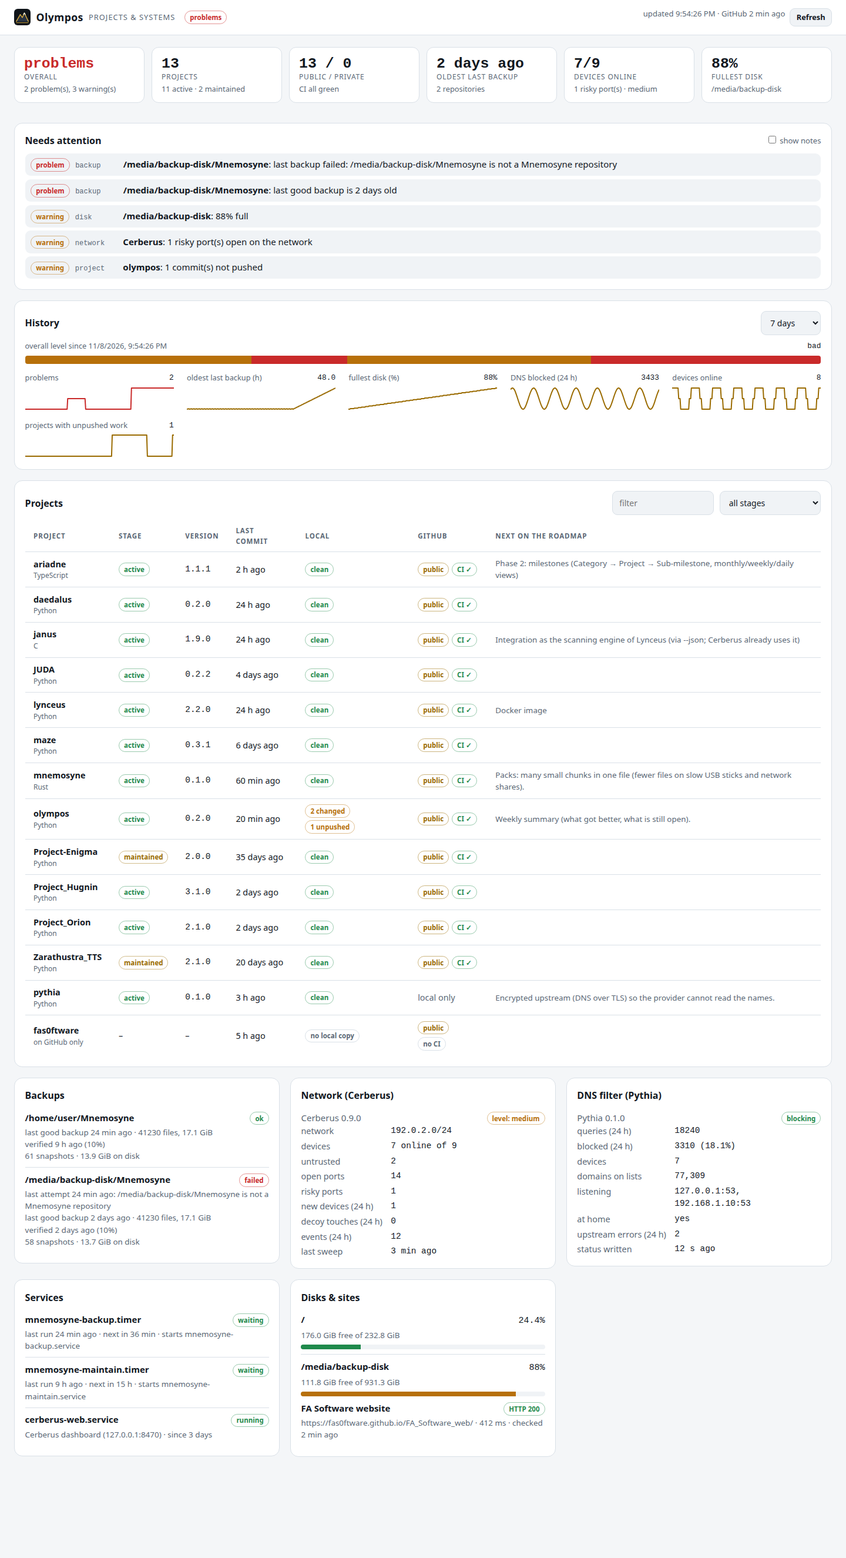
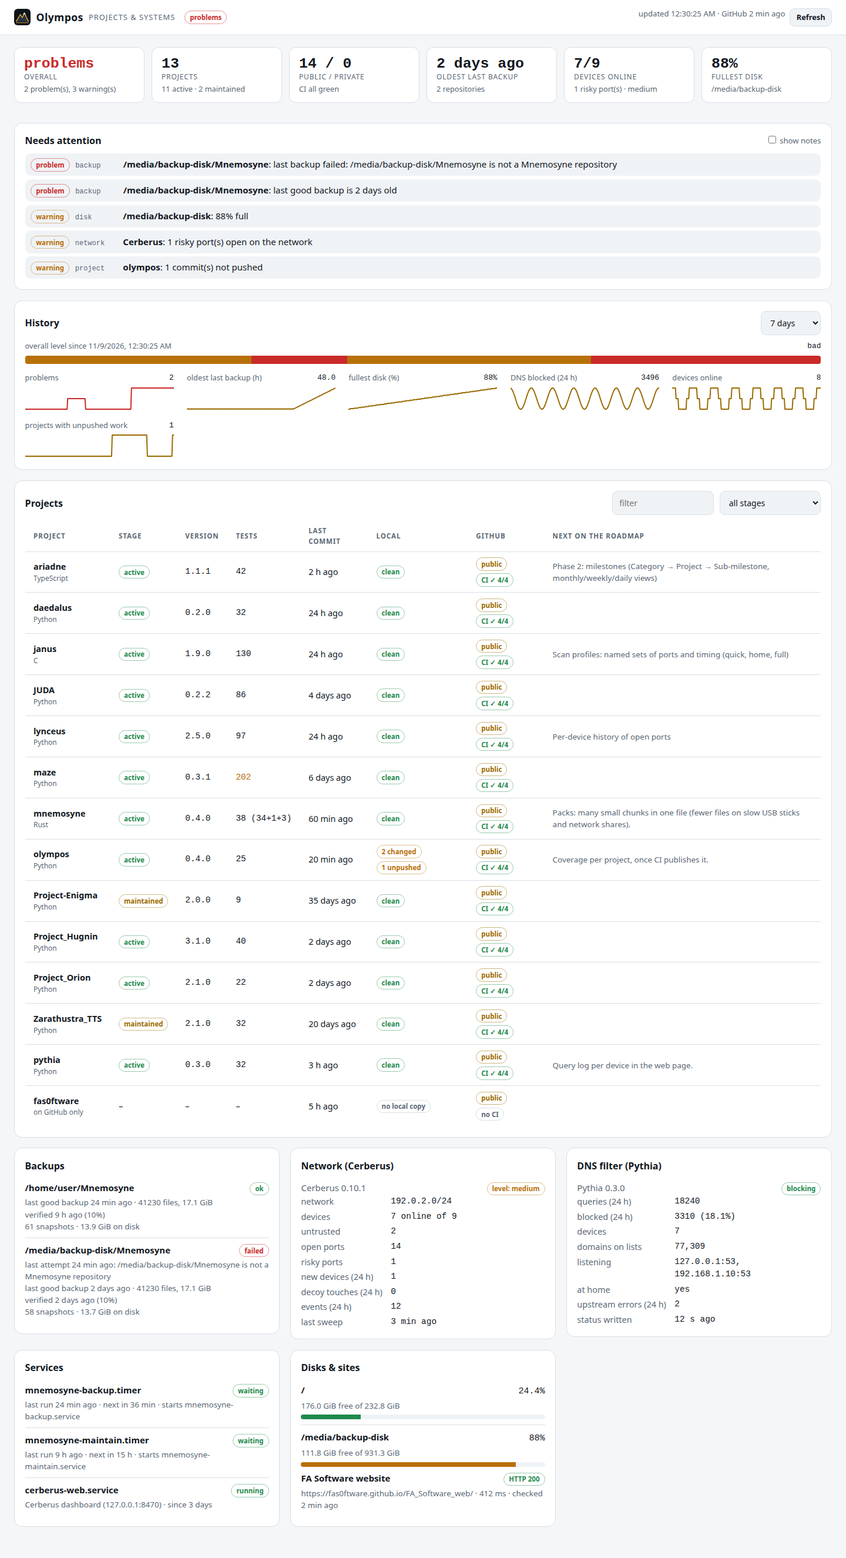
Olympos 0.4.0: tests per project and failing CI jobs by name
- Read the passed-test count from each project's docs/test-results.svg
  (pytest, cargo, Jest, unittest) and show it in a Tests column; flag
  the image when 5+ code commits are newer than it.
- Ask GitHub for the jobs of the latest default-branch run: the CI badge
  shows passed/total and a failing CI finding names the failing jobs.
- Demo data: current versions and test counts; screenshots regenerated.

diff --git a/olympos/static/app.js b/olympos/static/app.js
@@ -69,14 +69,29 @@ function renderFindings(s) {
   $("#findings").replaceChildren(...items);
 }
 
+function testsCell(p) {
+  if (!p.tests || !p.tests.length) return el("td", { class: "muted" }, "–");
+  const total = p.tests.reduce((a, b) => a + b, 0);
+  const stale = p.tests_behind >= 5;
+  const title = `${p.tests.join(" + ")} passed (docs/test-results.svg, ${ago(p.tests_updated)})`
+    + (p.tests_behind ? ` · ${p.tests_behind} commit(s) since` : "");
+  return el("td", { class: `mono${stale ? " stale" : ""}`, title }, p.tests.length > 1 ? `${total} (${p.tests.join("+")})` : String(total));
+}
+
 function githubCell(p) {
   const g = p.github;
   if (!p.remote) return el("span", { class: "muted" }, "local only");
   if (!g) return el("span", { class: "muted" }, current.github_checked ? "not found" : "checking…");
   const ci = { SUCCESS: ["CI ✓", "good"], FAILURE: ["CI ✗", "bad"], ERROR: ["CI ✗", "bad"], PENDING: ["CI …", "warn"] }[g.ci];
+  let ciTitle = "";
+  if (ci && g.checks) {
+    const failed = g.failed_checks || [];
+    ci[0] += ` ${g.checks - failed.length}/${g.checks}`;
+    ciTitle = failed.length ? `failing: ${failed.join(", ")}` : `${g.checks} CI job(s) passed`;
+  }
   return el("div", { class: "badges" },
     badge(g.visibility.toLowerCase(), g.visibility === "PUBLIC" ? "accent" : ""),
-    ci ? badge(ci[0], ci[1]) : badge("no CI"),
+    ci ? Object.assign(badge(ci[0], ci[1]), { title: ciTitle }) : badge("no CI"),
     g.open_prs ? badge(`${g.open_prs} PR`, "warn") : null,
     g.archived ? badge("archived") : null);
 }
@@ -104,6 +119,7 @@ function renderProjects(s) {
         name,
         el("td", {}, p.stage ? el("span", { class: `badge stage--${p.stage}`, title: p.stage_source === "config" ? "set in olympos.toml" : "from commit activity" }, p.stage) : "–"),
         el("td", { class: "mono" }, p.version || "–"),
+        testsCell(p),
         el("td", { title: p.last_subject || "" }, ago(p.last_commit)),
         el("td", {}, local),
         el("td", {}, githubCell(p)),
@@ -112,7 +128,7 @@ function renderProjects(s) {
   for (const r of s.remote_only) {
     rows.push(el("tr", {},
       el("td", { class: "name" }, r.name, el("span", { class: "lang" }, "on GitHub only")),
-      el("td", {}, "–"), el("td", {}, "–"), el("td", {}, ago(r.pushed_at)),
+      el("td", {}, "–"), el("td", {}, "–"), el("td", {}, "–"), el("td", {}, ago(r.pushed_at)),
       el("td", {}, badge("no local copy")), el("td", {}, githubCell({ remote: `${r.owner}/${r.name}`, github: r })), el("td", {})));
   }
   $("#projects").replaceChildren(...rows);

diff --git a/olympos/static/index.html b/olympos/static/index.html
@@ -55,7 +55,7 @@
       <div class="scroll">
         <table class="table projects">
           <thead><tr>
-            <th>Project</th><th>Stage</th><th>Version</th><th>Last commit</th><th>Local</th><th>GitHub</th><th>Next on the roadmap</th>
+            <th>Project</th><th>Stage</th><th>Version</th><th>Tests</th><th>Last commit</th><th>Local</th><th>GitHub</th><th>Next on the roadmap</th>
           </tr></thead>
           <tbody id="projects"></tbody>
         </table>

diff --git a/olympos/static/style.css b/olympos/static/style.css
@@ -66,3 +66,4 @@
   .brand__tag { display: none; }
   .top { padding: .7rem 1rem; }
 }
+.projects td.stale { color: var(--warn); }

diff --git a/olympos/demo.py b/olympos/demo.py
@@ -16,7 +16,8 @@ def _project(now, name, lang, version, stage, commit, **extra):
     p = {"name": name, "path": f"/home/user/projects/{name}", "language": lang, "version": version, "branch": "main",
          "dirty": 0, "ahead": 0, "behind": 0, "upstream": True, "last_commit": _iso(now, **commit),
          "last_subject": "Update README", "commits": 42, "remote": f"fas0ftware/{name}", "next_step": "",
-         "stage": stage, "stage_source": "activity", "note": "", "errors": []}
+         "stage": stage, "stage_source": "activity", "note": "", "errors": [],
+         "tests": [], "tests_updated": _iso(now, days=1), "tests_behind": 0}
     p.update(extra)
     return p
 
@@ -24,7 +25,7 @@ def _project(now, name, lang, version, stage, commit, **extra):
 def _repo(now, name, visibility="PUBLIC", ci="SUCCESS", **extra):
     r = {"owner": "fas0ftware", "name": name, "visibility": visibility, "archived": False,
          "pushed_at": _iso(now, hours=5), "url": f"https://github.com/fas0ftware/{name}", "ci": ci,
-         "open_prs": 0, "open_issues": 0}
+         "open_prs": 0, "open_issues": 0, "checks": 4 if ci else 0, "failed_checks": []}
     r.update(extra)
     return r
 
@@ -35,24 +36,25 @@ def snapshot(now: datetime | None = None) -> dict:
     # The author's own public projects (names, versions, roadmaps as on GitHub); paths, times
     # and the machine around them are made up.
     projects = [
-        _project(now, "ariadne", "TypeScript", "1.1.1", "active", {"hours": 2},
+        _project(now, "ariadne", "TypeScript", "1.1.1", "active", {"hours": 2}, tests=[42],
                  next_step="Phase 2: milestones (Category → Project → Sub-milestone, monthly/weekly/daily views)"),
-        _project(now, "daedalus", "Python", "0.2.0", "active", {"days": 1}),
-        _project(now, "janus", "C", "1.9.0", "active", {"days": 1},
-                 next_step="Integration as the scanning engine of Lynceus (via --json; Cerberus already uses it)"),
-        _project(now, "JUDA", "Python", "0.2.2", "active", {"days": 4}),
-        _project(now, "lynceus", "Python", "2.2.0", "active", {"days": 1}, next_step="Docker image"),
-        _project(now, "maze", "Python", "0.3.1", "active", {"days": 6}),
-        _project(now, "mnemosyne", "Rust", "0.1.0", "active", {"hours": 1},
+        _project(now, "daedalus", "Python", "0.2.0", "active", {"days": 1}, tests=[32]),
+        _project(now, "janus", "C", "1.9.0", "active", {"days": 1}, tests=[130],
+                 next_step="Scan profiles: named sets of ports and timing (quick, home, full)"),
+        _project(now, "JUDA", "Python", "0.2.2", "active", {"days": 4}, tests=[86]),
+        _project(now, "lynceus", "Python", "2.5.0", "active", {"days": 1}, tests=[97],
+                 next_step="Per-device history of open ports"),
+        _project(now, "maze", "Python", "0.3.1", "active", {"days": 6}, tests=[202], tests_behind=6),
+        _project(now, "mnemosyne", "Rust", "0.4.0", "active", {"hours": 1}, tests=[34, 1, 3],
                  next_step="Packs: many small chunks in one file (fewer files on slow USB sticks and network shares)."),
-        _project(now, "olympos", "Python", "0.3.0", "active", {"minutes": 20}, ahead=1, dirty=2,
-                 next_step="Tests and coverage per project, read from the CI artifacts."),
-        _project(now, "Project-Enigma", "Python", "2.0.0", "maintained", {"days": 35}),
-        _project(now, "Project_Hugnin", "Python", "3.1.0", "active", {"days": 2}),
-        _project(now, "Project_Orion", "Python", "2.1.0", "active", {"days": 2}),
-        _project(now, "Zarathustra_TTS", "Python", "2.1.0", "maintained", {"days": 20}),
-        _project(now, "pythia", "Python", "0.1.0", "active", {"hours": 3}, remote="", upstream=False,
-                 next_step="Encrypted upstream (DNS over TLS) so the provider cannot read the names."),
+        _project(now, "olympos", "Python", "0.4.0", "active", {"minutes": 20}, ahead=1, dirty=2, tests=[25],
+                 next_step="Coverage per project, once CI publishes it."),
+        _project(now, "Project-Enigma", "Python", "2.0.0", "maintained", {"days": 35}, tests=[9]),
+        _project(now, "Project_Hugnin", "Python", "3.1.0", "active", {"days": 2}, tests=[40]),
+        _project(now, "Project_Orion", "Python", "2.1.0", "active", {"days": 2}, tests=[22]),
+        _project(now, "Zarathustra_TTS", "Python", "2.1.0", "maintained", {"days": 20}, tests=[32]),
+        _project(now, "pythia", "Python", "0.3.0", "active", {"hours": 3}, tests=[32],
+                 next_step="Query log per device in the web page."),
     ]
     repos = [_repo(now, p["name"]) for p in projects if p["remote"]] + [_repo(now, "fas0ftware", ci="")]
     units = [
@@ -81,7 +83,7 @@ def snapshot(now: datetime | None = None) -> dict:
          "last_check": {"time": _iso(now, days=2), "ok": True, "bytes": 1_790_000_000, "read_data": "10%"},
          "snapshots": 58, "repo_bytes": 14_700_000_000},
     ]
-    cerberus = {"version": "0.9.0", "network": "192.0.2.0/24", "last_sweep": _iso(now, minutes=3), "hosts": 9,
+    cerberus = {"version": "0.10.1", "network": "192.0.2.0/24", "last_sweep": _iso(now, minutes=3), "hosts": 9,
                 "online": 7, "new_devices_24h": 1, "untrusted": 2, "open_ports": 14, "risky_ports": 1,
                 "decoy_touches_24h": 0, "events_24h": 12, "level": "medium"}
     disks = [{"path": "/", "mounted": True, "total": 250_000_000_000, "used": 61_000_000_000,
@@ -90,7 +92,7 @@ def snapshot(now: datetime | None = None) -> dict:
               "free": 120_000_000_000, "percent": 88.0}]
     sites = [{"name": "FA Software website", "url": "https://fas0ftware.github.io/FA_Software_web/", "status": 200, "ms": 412, "error": "",
               "checked": _iso(now, minutes=2)}]
-    pythia = {"version": "0.1.0", "listening": ["127.0.0.1:53", "192.168.1.10:53"], "at_home": True, "blocking": True,
+    pythia = {"version": "0.3.0", "listening": ["127.0.0.1:53", "192.168.1.10:53"], "at_home": True, "blocking": True,
               "paused_until": "", "domains_on_lists": 77309, "queries_24h": 18240, "blocked_24h": 3310,
               "blocked_percent_24h": 18.1, "clients": 7, "errors_24h": 2,
               "upstreams": [{"server": "1.1.1.1:53", "failures_in_a_row": 0}], "lists_updated": _iso(now, hours=6),

diff --git a/tests/test_olympos.py b/tests/test_olympos.py
@@ -119,6 +119,39 @@ def test_github_remote_and_stage():
     assert projects.stage_from_activity(iso(days=300), NOW) == "paused"
 
 
+def svg(*lines):
+    """A terminal image like the ones in the projects' docs/ (spaces as NBSP)."""
+    return "<svg>" + "".join(f'<text x="0">{l.replace(" ", "\u00a0")}</text>' for l in lines) + "</svg>"
+
+
+def test_test_counts_from_terminal_images():
+    assert projects.test_counts(svg("$ pytest -q", "....", "196 passed in 3.1s")) == [196]
+    assert projects.test_counts(svg("Test Suites: 5 passed, 5 total", "Tests:       42 passed, 42 total")) == [42]
+    assert projects.test_counts(svg("Ran 86 tests in 0.4s", "OK")) == [86]
+    assert projects.test_counts(svg("test result: ok. 34 passed; 0 failed", "test result: ok. 0 passed; 0 failed",
+                                    "test result: ok. 3 passed; 0 failed")) == [34, 3]
+    assert projects.test_counts(svg("12 passed, 4 subtests passed")) == [12]
+    assert projects.test_counts("<svg><text>no tests here</text></svg>") == []
+
+
+def test_inspect_reads_test_image_and_staleness(tmp_path):
+    r = make_repo(tmp_path / "tool", {"pyproject.toml": '[project]\nname="t"\nversion="1.0.0"\n',
+                                      "docs/test-results.svg": svg("23 passed in 1.0s")})
+    for i in range(3):
+        (r / f"code{i}.py").write_text("x")
+        git(r, "add", "-A")
+        git(r, "commit", "-q", "-m", f"code {i}")
+    (r / "docs" / "notes.md").write_text("docs only")
+    git(r, "add", "-A")
+    git(r, "commit", "-q", "-m", "docs")
+    p = projects.inspect(r, {})
+    assert p.tests == [23] and p.tests_updated
+    assert p.tests_behind == 3, "commits that only touch docs/ do not count"
+    f = health.projects([{**p.__dict__, "tests_behind": 5}], {})
+    assert any("test image is 5 commits behind" in x.text for x in f)
+    assert not any("test image" in x.text for x in health.projects([p.__dict__], {}))
+
+
 # --- github -----------------------------------------------------------------------------
 
 def test_github_parse():
@@ -129,8 +162,14 @@ def test_github_parse():
         {"name": "b", "visibility": "PRIVATE", "defaultBranchRef": None, "pullRequests": None},
         "junk", {"visibility": "PUBLIC"},
     ]}}}}
+    data["data"]["repositoryOwner"]["repositories"]["nodes"][0]["defaultBranchRef"]["target"]["statusCheckRollup"]["contexts"] = {
+        "nodes": [{"__typename": "CheckRun", "name": "test (3.12)", "conclusion": "FAILURE", "status": "COMPLETED"},
+                  {"__typename": "CheckRun", "name": "lint", "conclusion": "SUCCESS", "status": "COMPLETED"},
+                  {"__typename": "StatusContext", "context": "ci/legacy", "state": "ERROR"}, "junk"]}
     repos = github.parse("me", data)
     assert [(r.name, r.ci, r.open_prs) for r in repos] == [("a", "FAILURE", 2), ("b", "", 0)]
+    assert (repos[0].checks, repos[0].failed_checks) == (3, ["ci/legacy", "test (3.12)"])
+    assert (repos[1].checks, repos[1].failed_checks) == (0, [])
     assert repos[0].full == "me/a"
     assert github.parse("me", {"errors": ["x"]}) == []
 
@@ -201,6 +240,8 @@ def test_project_health_and_worst():
     f = health.projects(items, repos)
     levels = {(x.subject, x.level, x.text) for x in f}
     assert ("a", "bad", "CI is failing on the default branch") in levels
+    named = health.projects(items[:1], {"me/a": {"ci": "FAILURE", "failed_checks": ["test", "lint"]}})
+    assert named[-1].text == "CI is failing on the default branch: test, lint"
     assert ("a", "warn", "1 commit(s) not pushed") in levels
     assert ("b", "info", "no GitHub repository yet") in levels
     assert health.worst(f) == "bad" and health.worst([]) == "ok"
@@ -214,7 +255,8 @@ def test_demo_snapshot_is_consistent():
     texts = {(f["subject"], f["level"]) for f in s["findings"]}
     assert ("olympos", "warn") in texts and ("/media/backup-disk/Mnemosyne", "bad") in texts
     pythia = next(p for p in s["projects"] if p["name"] == "pythia")
-    assert pythia["github"] is None and s["pythia"]["blocking"] is True
+    assert pythia["github"]["checks"] == 4 and pythia["tests"] == [32] and s["pythia"]["blocking"] is True
+    assert ("maze", "info") in texts, "the demo shows a stale test image"
     json.dumps(s)
 
 

diff --git a/olympos/projects.py b/olympos/projects.py
@@ -39,6 +39,9 @@ class Project:
     commits: int = 0
     remote: str = ""              # "owner/name" on GitHub, if any
     next_step: str = ""           # first open item of the README roadmap
+    tests: list[int] = field(default_factory=list)   # passed tests per runner, from docs/test-results.svg
+    tests_updated: str = ""       # when that image last changed (ISO)
+    tests_behind: int = 0         # commits outside docs/ since then: the image may be out of date
     stage: str = ""
     stage_source: str = ""        # "config" or "activity"
     note: str = ""
@@ -141,6 +144,23 @@ def detect_version(path: Path) -> str:
     return str(v) if isinstance(v, str) else ""
 
 
+TEST_IMAGE = "docs/test-results.svg"
+JEST = re.compile(r"Tests:\s+(\d+) passed")
+PASSED = re.compile(r"(?<!Suites: )(?<!subtests )\b(\d+) passed")
+UNITTEST = re.compile(r"\bRan (\d+) tests?\b")
+
+
+def test_counts(svg_text: str) -> list[int]:
+    """Passed tests per runner in a terminal image: pytest/cargo ("12 passed"), Jest
+    ("Tests: 42 passed", not the suite count) and unittest ("Ran 86 tests")."""
+    text = re.sub(r"<[^>]+>", "\n", svg_text).replace("\u00a0", " ")
+    jest = [int(n) for n in JEST.findall(text)]
+    if jest:
+        return jest
+    counts = [int(n) for n in PASSED.findall(text)] + [int(n) for n in UNITTEST.findall(text)]
+    return [n for n in counts if n > 0]
+
+
 ROADMAP = re.compile(r"^#{2,3}\s+(roadmap|yol haritası|next steps?|todo)\b.*$", re.I | re.M)
 DONE = re.compile(r"\bdone\b|✅|\(shipped\)", re.I)
 ITEM = re.compile(r"^\s*(?:[-*]|\d+\.)\s+(?:\[( |x|X)\]\s+)?(.+)$")
@@ -208,6 +228,16 @@ def inspect(path: Path, notes: dict, now: datetime | None = None) -> Project:
         p.remote = github_remote(git(path, "remote", "get-url", "origin"))
     except (RuntimeError, subprocess.TimeoutExpired):
         pass
+    image = path / TEST_IMAGE
+    if image.exists():
+        try:
+            p.tests = test_counts(image.read_text(encoding="utf-8", errors="replace")[:500_000])
+            p.tests_updated = git(path, "log", "-1", "--format=%cI", "--", TEST_IMAGE).strip()
+            last = git(path, "log", "-1", "--format=%H", "--", TEST_IMAGE).strip()
+            if last:
+                p.tests_behind = int(git(path, "rev-list", "--count", f"{last}..HEAD", "--", ".", ":(exclude)docs").strip() or 0)
+        except (RuntimeError, subprocess.TimeoutExpired, ValueError, OSError):
+            pass
     readme = path / "README.md"
     if readme.exists():
         p.next_step = next_step(readme.read_text(errors="replace"))

diff --git a/olympos/github.py b/olympos/github.py
@@ -6,7 +6,7 @@ import json
 import re
 import shutil
 import subprocess  # nosec B404
-from dataclasses import asdict, dataclass
+from dataclasses import asdict, dataclass, field
 
 QUERY = """
 query($owner: String!) {
@@ -14,7 +14,10 @@ query($owner: String!) {
     repositories(first: 100, ownerAffiliations: OWNER, orderBy: {field: PUSHED_AT, direction: DESC}) {
       nodes {
         name visibility isArchived pushedAt url
-        defaultBranchRef { name target { ... on Commit { statusCheckRollup { state } } } }
+        defaultBranchRef { name target { ... on Commit { statusCheckRollup { state
+          contexts(first: 50) { nodes { __typename
+            ... on CheckRun { name conclusion status }
+            ... on StatusContext { context state } } } } } } }
         pullRequests(states: OPEN) { totalCount }
         issues(states: OPEN) { totalCount }
       }
@@ -35,6 +38,8 @@ class Repo:
     ci: str = ""               # SUCCESS / FAILURE / ERROR / PENDING / EXPECTED / "" (no checks)
     open_prs: int = 0
     open_issues: int = 0
+    checks: int = 0                                   # jobs in the latest run on the default branch
+    failed_checks: list = field(default_factory=list)  # names of the ones that failed
 
     @property
     def full(self) -> str:
@@ -52,11 +57,20 @@ def parse(owner: str, data: dict) -> list[Repo]:
             continue
         target = ((n.get("defaultBranchRef") or {}).get("target") or {})
         rollup = target.get("statusCheckRollup") or {}
+        nodes_ = ((rollup.get("contexts") or {}).get("nodes") or [])
+        failed = []
+        for c in nodes_:
+            if not isinstance(c, dict):
+                continue
+            state = c.get("conclusion") or c.get("state") or ""
+            if state in ("FAILURE", "ERROR", "TIMED_OUT", "STARTUP_FAILURE", "ACTION_REQUIRED"):
+                failed.append(str(c.get("name") or c.get("context") or "?")[:80])
         out.append(Repo(
             owner=owner, name=str(n["name"]), visibility=str(n.get("visibility") or ""),
             archived=bool(n.get("isArchived")), pushed_at=str(n.get("pushedAt") or ""), url=str(n.get("url") or ""),
             ci=str(rollup.get("state") or ""), open_prs=int((n.get("pullRequests") or {}).get("totalCount") or 0),
             open_issues=int((n.get("issues") or {}).get("totalCount") or 0),
+            checks=sum(1 for c in nodes_ if isinstance(c, dict)), failed_checks=sorted(set(failed)),
         ))
     return out
 

diff --git a/olympos/health.py b/olympos/health.py
@@ -55,12 +55,17 @@ def projects(items: list[dict], repos: dict[str, dict]) -> list[Finding]:
             out.append(Finding("warn", "project", name, f"{p['ahead']} commit(s) not pushed"))
         if p.get("behind"):
             out.append(Finding("info", "project", name, f"{p['behind']} commit(s) on GitHub not pulled"))
+        if p.get("tests") and p.get("tests_behind", 0) >= 5:
+            out.append(Finding("info", "project", name,
+                               f"test image is {p['tests_behind']} commits behind the code (docs/test-results.svg)"))
         if p.get("branch") and p["branch"] not in ("main", "master", "HEAD"):
             out.append(Finding("info", "project", name, f"working on branch {p['branch']}"))
         r = repos.get((p.get("remote") or "").lower())
         if r:
             if r.get("ci") in ("FAILURE", "ERROR"):
-                out.append(Finding("bad", "github", name, "CI is failing on the default branch"))
+                jobs = r.get("failed_checks") or []
+                which = f": {', '.join(jobs[:4])}" + (" …" if len(jobs) > 4 else "") if jobs else ""
+                out.append(Finding("bad", "github", name, f"CI is failing on the default branch{which}"))
             if r.get("open_prs"):
                 out.append(Finding("info", "github", name, f"{r['open_prs']} open pull request(s)"))
         elif p.get("remote") and repos:

diff --git a/olympos/__init__.py b/olympos/__init__.py
@@ -1,3 +1,3 @@
 """Olympos: one page that shows how every project and home system is doing."""
 
-__version__ = "0.3.0"
+__version__ = "0.4.0"

diff --git a/README.md b/README.md
@@ -1,7 +1,7 @@
 # Olympos
 
 [![CI](https://github.com/fas0ftware/olympos/actions/workflows/ci.yml/badge.svg)](https://github.com/fas0ftware/olympos/actions/workflows/ci.yml)
-![Version](https://img.shields.io/badge/version-0.3.0-blue)
+![Version](https://img.shields.io/badge/version-0.4.0-blue)
 ![License](https://img.shields.io/badge/license-MIT-green)
 ![Python](https://img.shields.io/badge/python-3.11%2B-blue)
 
@@ -41,9 +41,9 @@ versions and roadmaps, on a made-up machine (paths, times, backups and network a
 
 | Area | Source | Details |
 |---|---|---|
-| **Projects** | every git repository under the configured folders (two levels deep) | language, version (`Cargo.toml`, `pyproject.toml`, `package.json`, `__version__`, or the README version badge), branch, uncommitted files, unpushed / unpulled commits, last commit, the first open item of the README's *Roadmap*, and a stage |
+| **Projects** | every git repository under the configured folders (two levels deep) | language, version (`Cargo.toml`, `pyproject.toml`, `package.json`, `__version__`, or the README version badge), branch, uncommitted files, unpushed / unpulled commits, last commit, the first open item of the README's *Roadmap*, the number of passed tests (from the project's `docs/test-results.svg` terminal image, with a note when the code has moved on since it was made), and a stage |
 | **Stage** | commit activity, or your own label | *active* (commit in the last 14 days), *maintained* (90 days), *paused*; *archived* when archived on GitHub; or set `idea / active / maintained / paused / archived` yourself |
-| **GitHub** | one GraphQL query per owner through the logged-in `gh` CLI | public / private, CI result on the default branch, open pull requests, archived; repositories with no local copy are listed too |
+| **GitHub** | one GraphQL query per owner through the logged-in `gh` CLI | public / private, CI result on the default branch with how many of its jobs passed and the names of the failing ones, open pull requests, archived; repositories with no local copy are listed too |
 | **Backups** | [Mnemosyne](https://github.com/fas0ftware/mnemosyne)'s status file | last attempt, last *good* backup, last verification, snapshots, size |
 | **Services** | `systemctl --user show` | for a timer also the result of the job it last started (a timer can be "active" while every backup fails) |
 | **Network** | a local [Cerberus](https://github.com/fas0ftware) dashboard (`/api/summary`) | devices online, risky ports, decoy touches, alert level |
@@ -162,9 +162,9 @@ note = "replaced by my-new-tool"
 
 | Level | Examples |
 |---|---|
-| **problem** | CI failing; a backup failed, is older than `max_age_hours` or never succeeded; a verification found damage; a service failed or is not installed; the last job a timer started failed; a disk is not mounted or 95 % full; a website is down; decoy touches or high alerts in Cerberus |
+| **problem** | CI failing (with the failing job names); a backup failed, is older than `max_age_hours` or never succeeded; a verification found damage; a service failed or is not installed; the last job a timer started failed; a disk is not mounted or 95 % full; a website is down; decoy touches or high alerts in Cerberus |
 | **warning** | unpushed commits; a timer that is not running; data not verified for `check_max_age_days`; a disk over `warn_percent`; risky ports on the network; Cerberus not reachable; a git or GitHub error |
-| **note** (hidden unless *show notes*) | uncommitted files, a feature branch, open pull requests, commits to pull, a project with no GitHub repository yet, new devices on the network, Pythia away from home |
+| **note** (hidden unless *show notes*) | uncommitted files, a feature branch, open pull requests, commits to pull, a project with no GitHub repository yet, new devices on the network, Pythia away from home, a test image 5 or more code commits older than the code |
 
 ## Security and privacy
 
@@ -219,7 +219,11 @@ olympos/
 - ~~History: keep a small daily record and draw how backups, CI and disks did over weeks.~~ Done in 0.2.
 - ~~Desktop notification when the overall level gets worse.~~ Done in 0.2.
 - ~~Weekly summary (what got better, what is still open).~~ Done in 0.3.
-- Tests and coverage per project, read from the CI artifacts.
+- ~~Tests per project and the failing CI jobs by name.~~ Done in 0.4: the count is read from each
+  project's test image, because downloading CI logs needs a token per run and the image is already
+  in the repository.
+- Coverage per project. None of the projects publishes a coverage number yet; this waits until
+  their CI does (for example a `coverage.json` artifact).
 
 ## License
 
